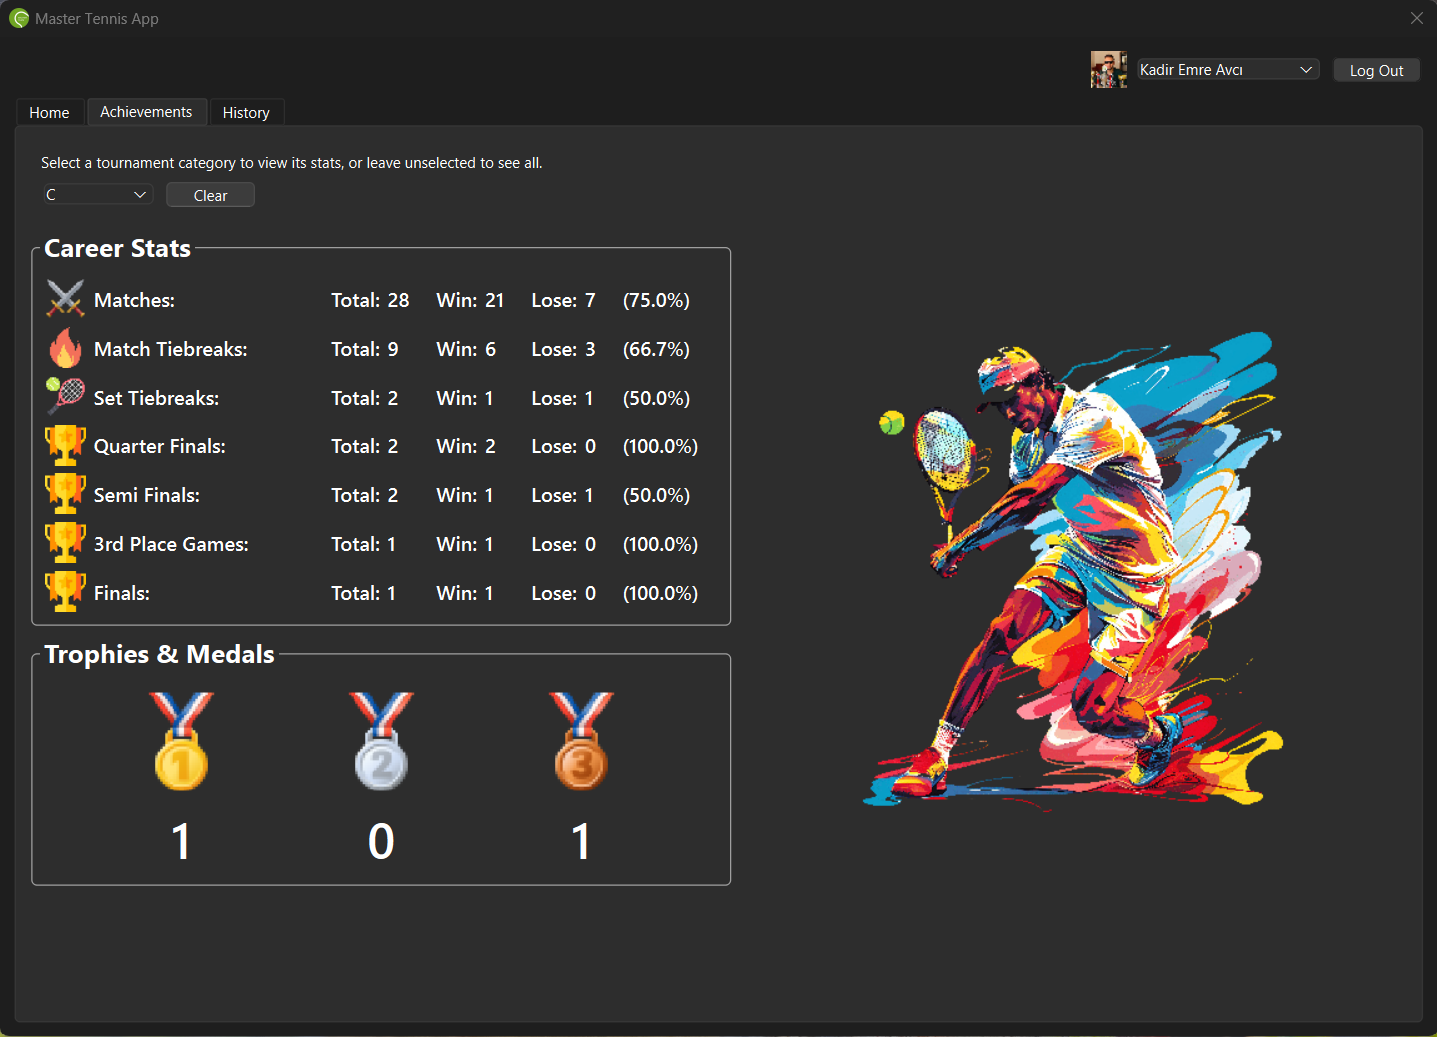
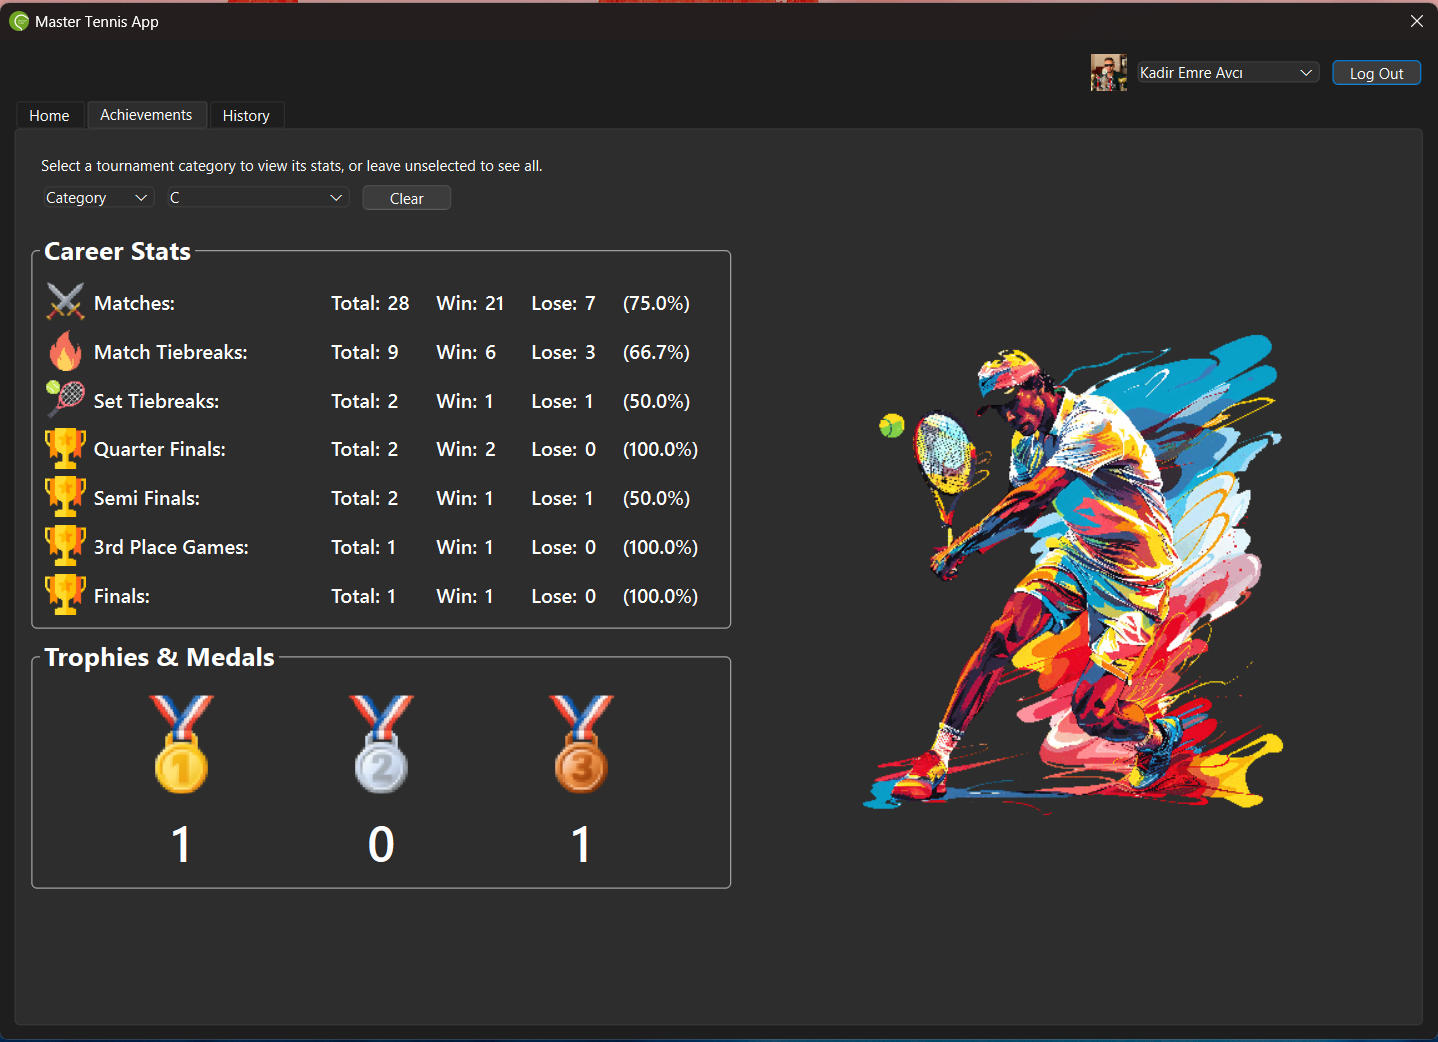
README.md file has been updated according to the changes in AchievementsPage.

diff --git a/README.md b/README.md
@@ -94,7 +94,7 @@ View your personalized career statistics, including the number of played finals,
 
 ![Achievements](docs/screenshots/achievements.png)
 
-Filter your career statistics by tournament category for more detailed insights.
+Filter your career stats by tournament category, type, or organization for deeper insights.
 
 ![Achievements](docs/screenshots/filtered_career_stats.png)
 
